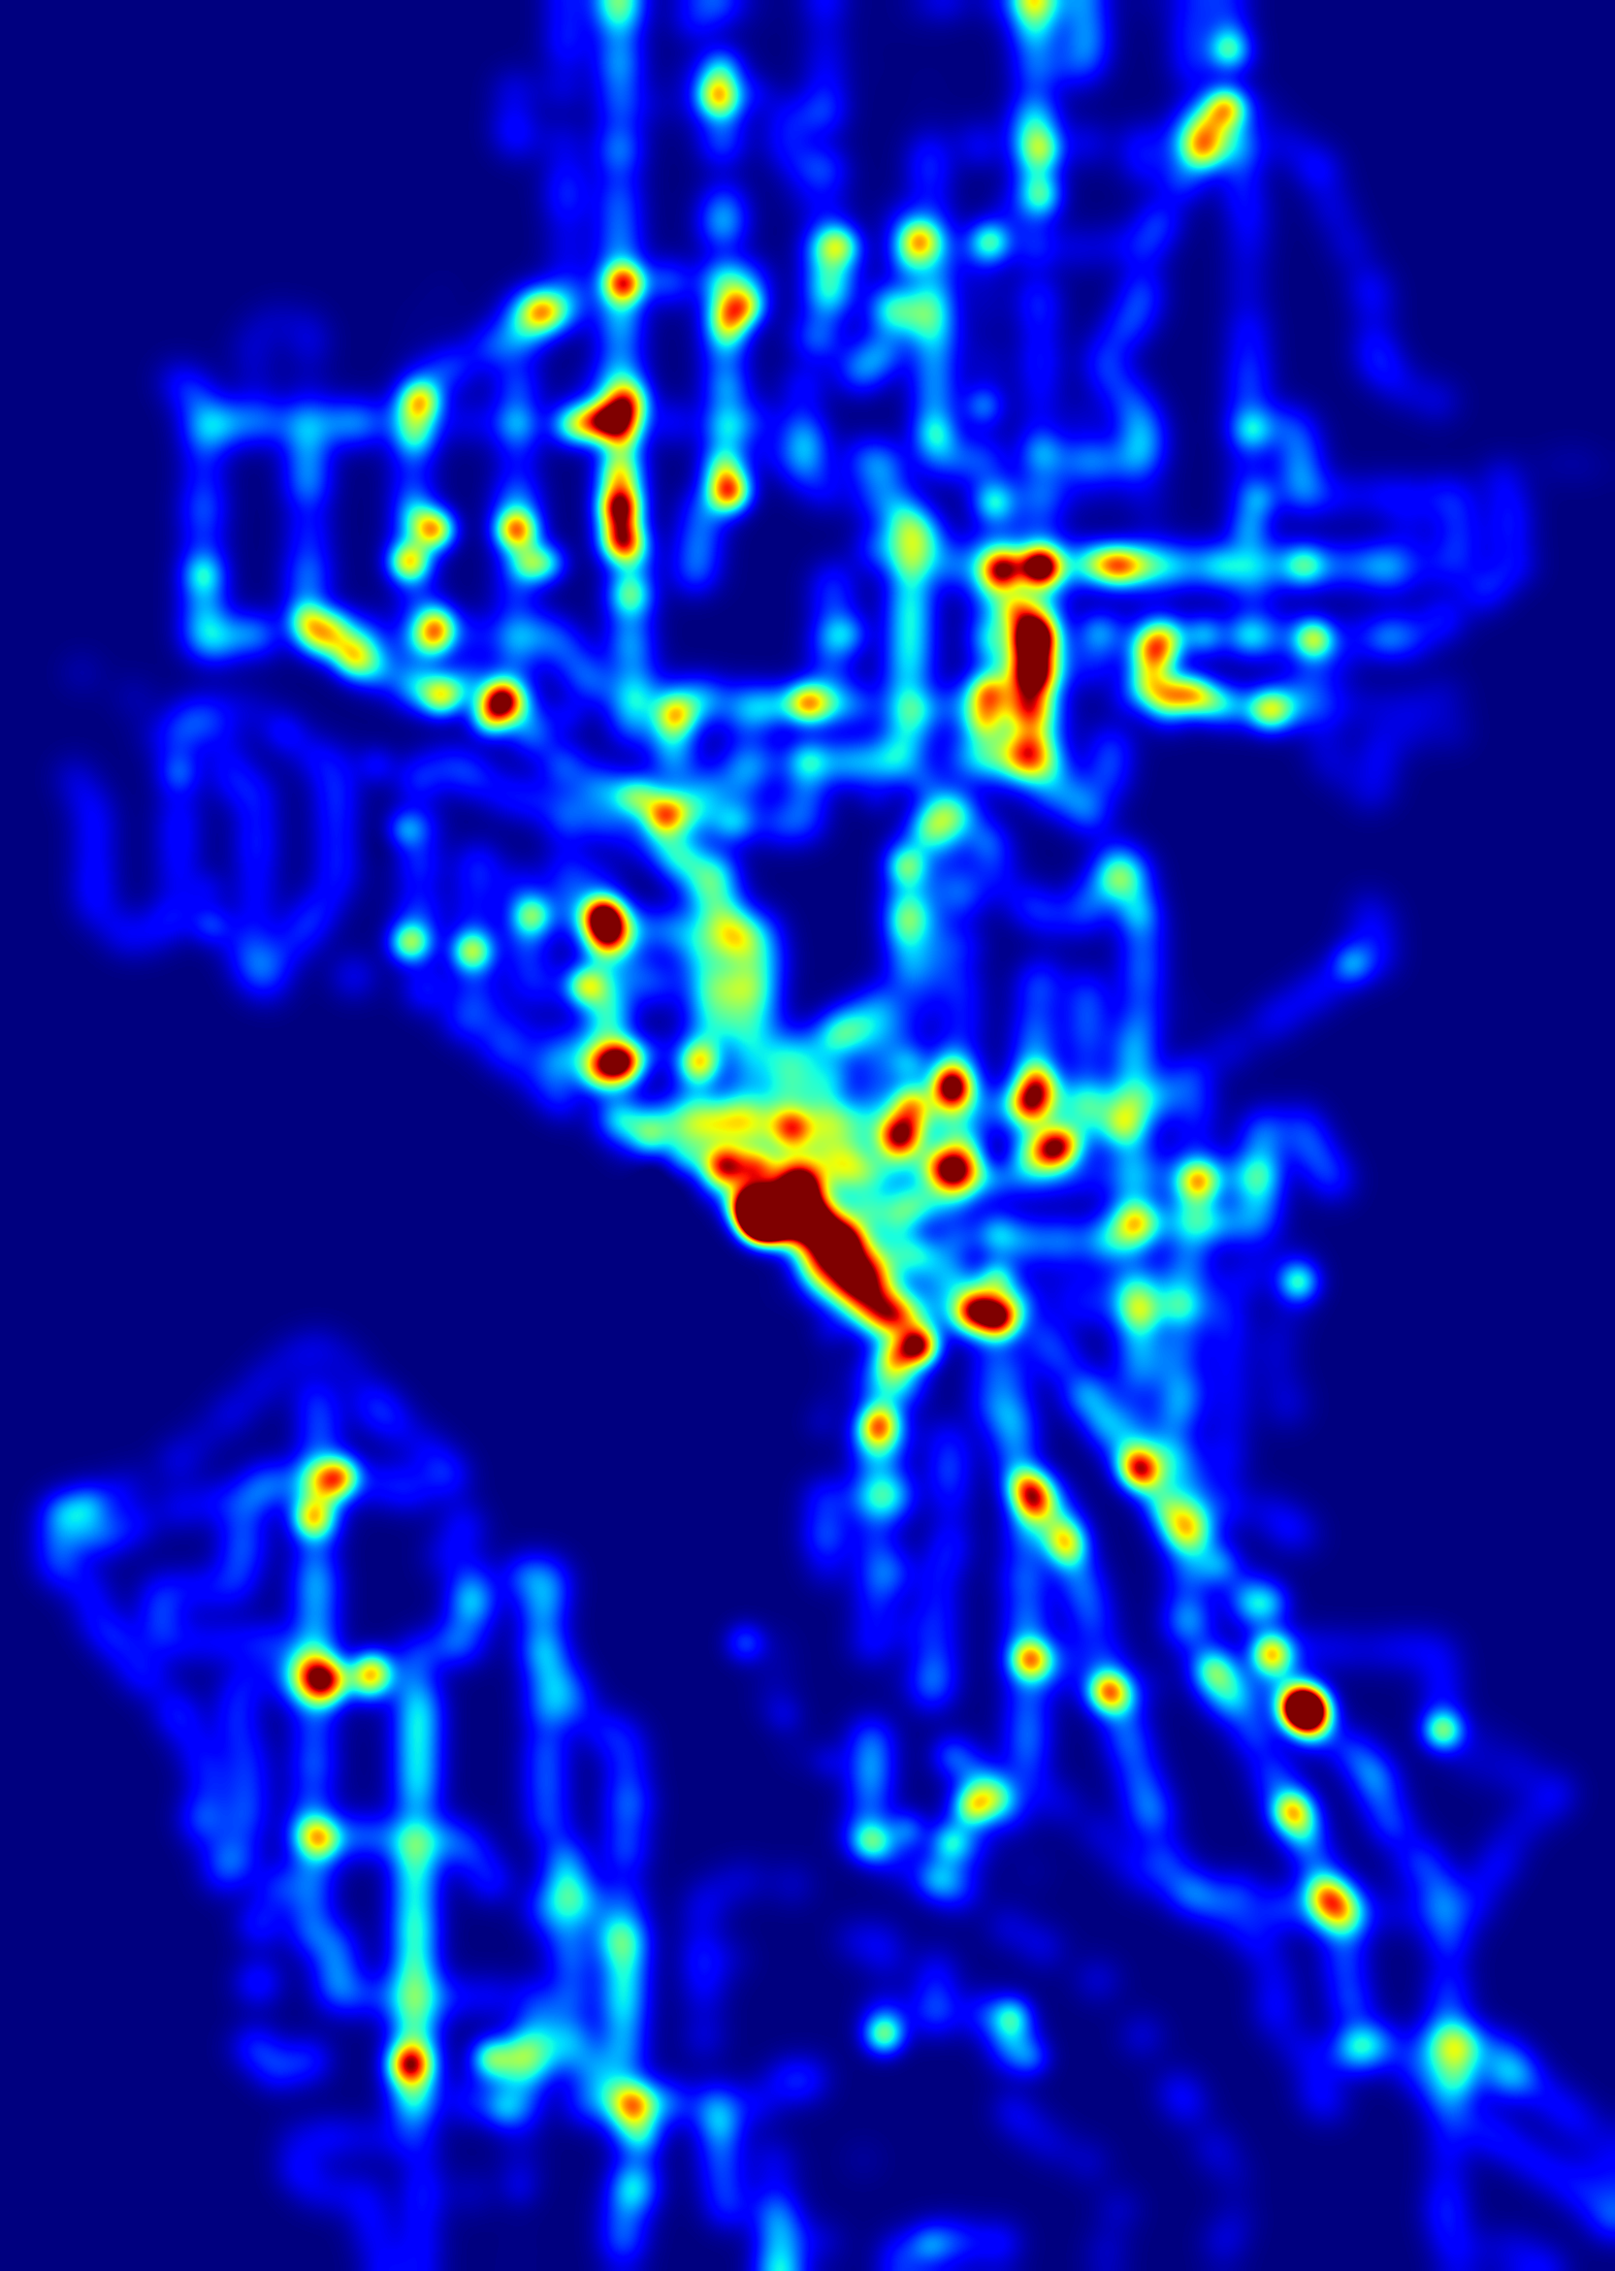
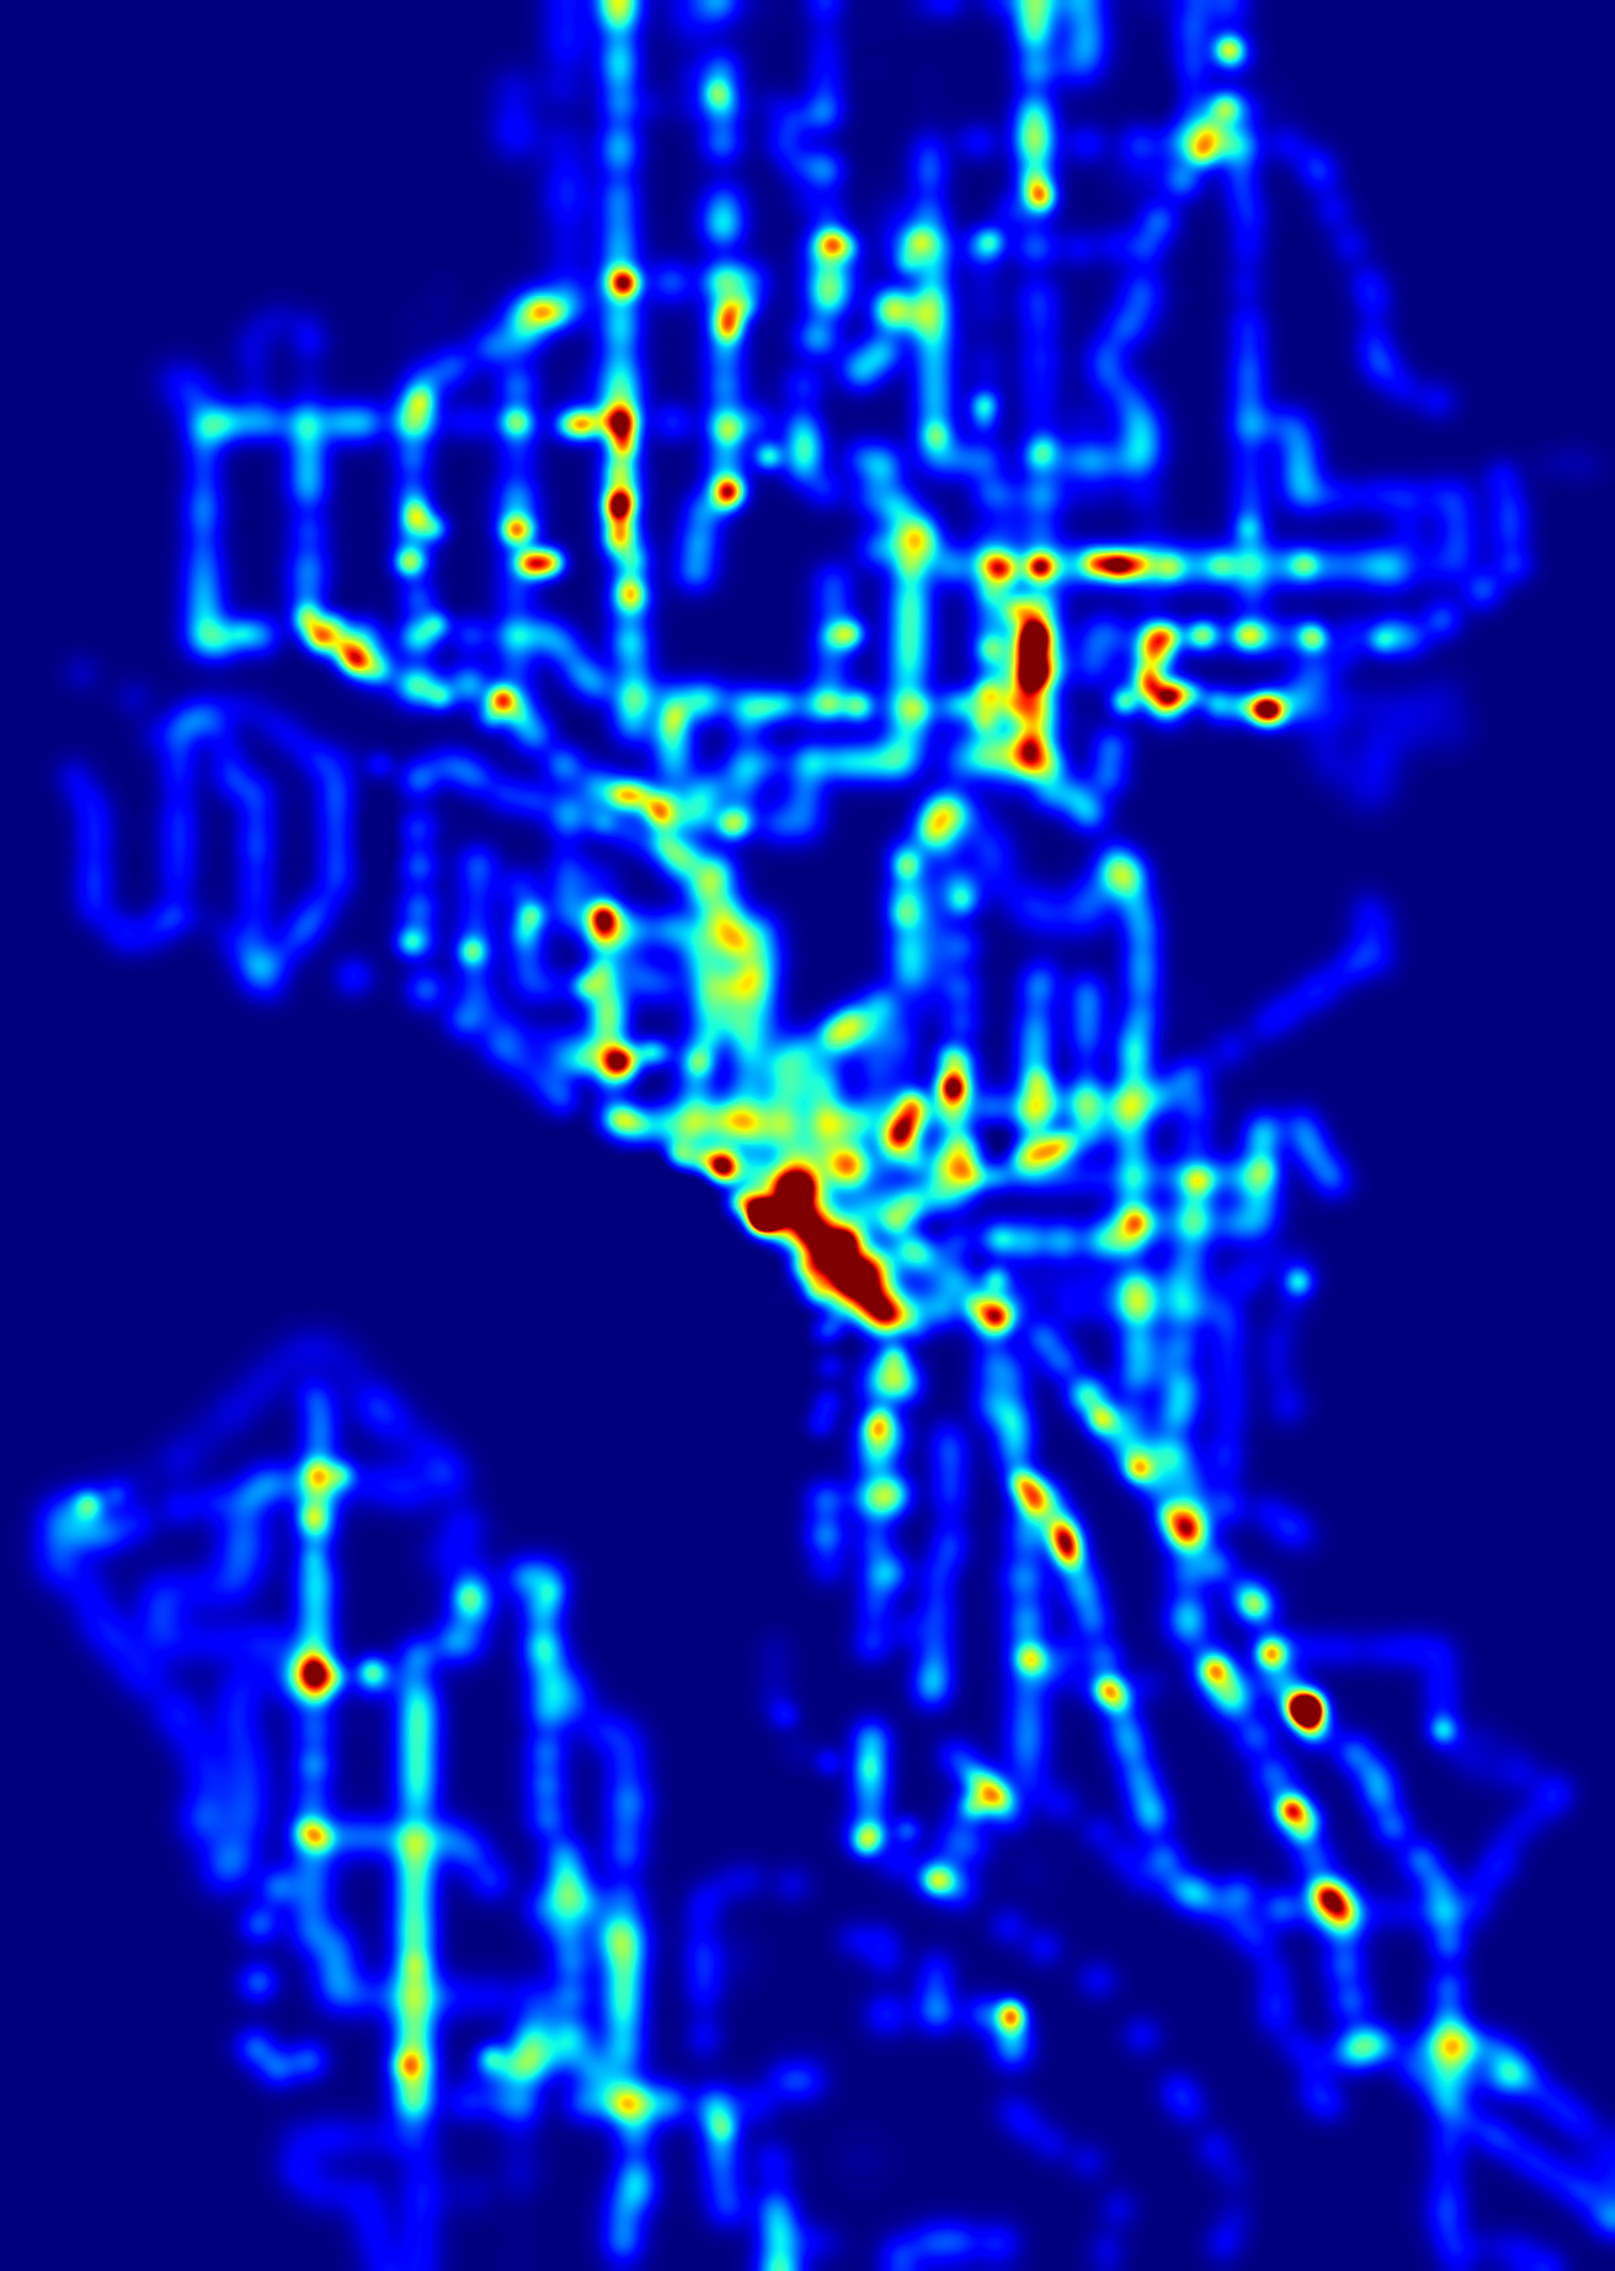
Modified bqm weighting

diff --git a/presentation/gen_image.py b/presentation/gen_image.py
@@ -68,12 +68,10 @@ def generate_business_quality_matrix_for_category(boundaries, sig_digits, catego
 	conn = sqlite3.connect('../data/yelp.db')
 	cursor = conn.cursor()
 
-	query = "SELECT latitude, longitude, rating, num_ratings FROM businesses WHERE latitude IS NOT NULL AND longitude IS NOT NULL AND yelp_id IN (SELECT yelp_id FROM business_category WHERE category_id = (SELECT category_id FROM categories WHERE category_name=?))"
+	query = "SELECT latitude, longitude,rating FROM businesses WHERE latitude IS NOT NULL AND longitude IS NOT NULL AND num_ratings > 25 AND num_ratings < 250 AND rating > 6 AND yelp_id IN (SELECT yelp_id FROM business_category WHERE category_id = (SELECT category_id FROM categories WHERE category_name=?))"
 
-	quality_raw = cursor.execute(query , [category])
+	quality= cursor.execute(query , [category])
 
-	quality = [[quality_data[0], quality_data[1], quality_data[2] * quality_data[3]] for quality_data in quality_raw]
-	
 	bqm = generate_matrix(boundaries, sig_digits, quality)
 	
 	return bqm
@@ -86,10 +84,10 @@ def generate_business_quality_matrix(boundaries, sig_digits, categories):
 		bqm_category = generate_business_quality_matrix_for_category(boundaries, sig_digits, category)
 
 		print("Creating {0} business quality matrix".format(category))
-		bqm_category_norm = normalize_image(bqm_category , 32)
-		imsave(category + ".tiff", gaussian_filter(bqm_category_norm, 10))
-		
-		bqm += bqm_category_norm * category_weight
+		bqm_category_filtered = gaussian_filter(bqm_category, 10)
+		imsave(category + ".tiff", bqm_category_filtered)
+
+		bqm += bqm_category * category_weight
 
 	return bqm
 
@@ -109,7 +107,7 @@ def generate_apartment_cost_matrix(boundaries, sig_digits):
 
 	#This will create a negative value for apartments above the price / sqft median
 	#and positive for those above it
-	cost = [[cost_data[0], cost_data[1], (prices_per_sqft_median - (cost_data[2] / float(cost_data[3]))) * 32] for cost_data in cost_raw]
+	cost = [[cost_data[0], cost_data[1], (prices_per_sqft_median - (cost_data[2] / float(cost_data[3]))) * 48] for cost_data in cost_raw]
 
 	acm = generate_matrix(boundaries, sig_digits, cost)
 
@@ -127,13 +125,13 @@ sig_digits = 4
 
 print("Creating apartment cost matrix")
 acm = generate_apartment_cost_matrix(boundaries, sig_digits)
-acm_filtered = gaussian_filter(acm , 15)
+acm_filtered = gaussian_filter(acm , 20)
 imsave("acm.tiff", acm_filtered)
 
 print("Creating general transit matrix")
 gtm = generate_general_transit_matrix(boundaries, sig_digits)
 gtm_norm = normalize_image(gtm, 64)
-gtm_norm_filtered = gaussian_filter(gtm_norm, 15)
+gtm_norm_filtered = gaussian_filter(gtm_norm, 10)
 imsave("gtm_norm.tiff", gtm_norm_filtered)
 
 print("Creating neighborhood destination transit matrix")
@@ -143,13 +141,12 @@ ndtm_filtered = gaussian_filter(ndtm, 15)
 imsave("ndtm_norm.tiff", ndtm_filtered)
 
 print("Creating business quality matrix")
-categories = [['markets', 5] , ['grocery' , 4] , ['restaurants' , 2] , ['bars' , 1]]
+categories = [['markets', 25] , ['grocery' , 20] , ['restaurants' , 15] , ['bars' , 10]]
 bqm = generate_business_quality_matrix(boundaries, sig_digits, categories)
-bqm_filtered = gaussian_filter(bqm, 10)
-imsave("bqm_norm.tiff", bqm_filtered)
+imsave("bqm_norm.tiff", bqm)
 
 cmap = get_cmap('jet')
 
 print("Creating final image")
-total_norm = gtm_norm_filtered + ndtm_filtered + bqm_filtered + acm_filtered
+total_norm = gtm_norm_filtered + ndtm_filtered + bqm + acm_filtered
 imsave("total.png", cmap(gaussian_filter(total_norm, 10)))
